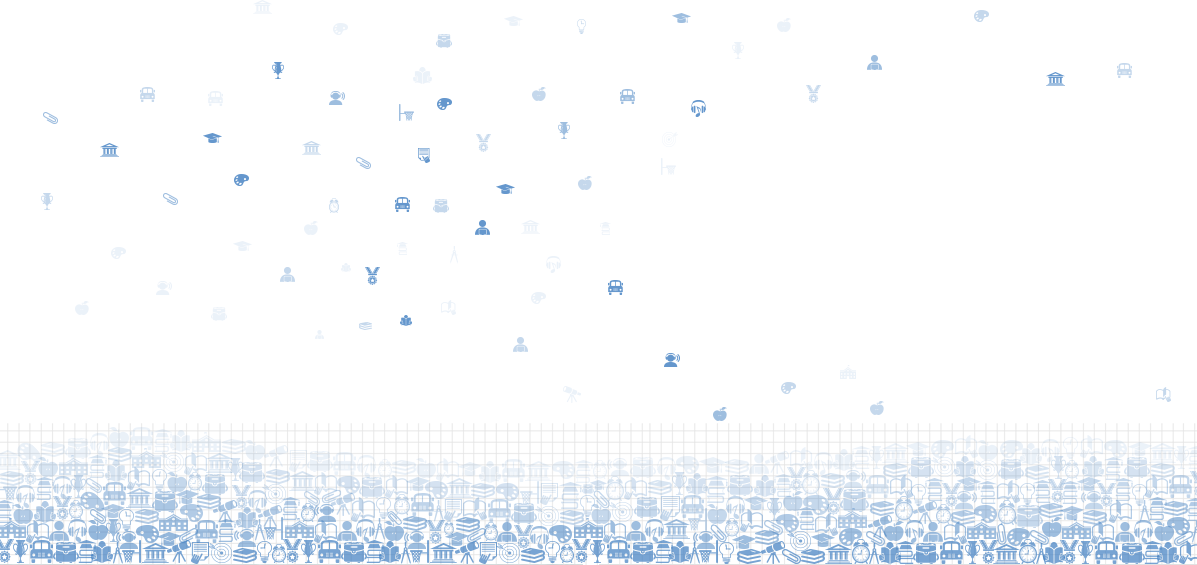
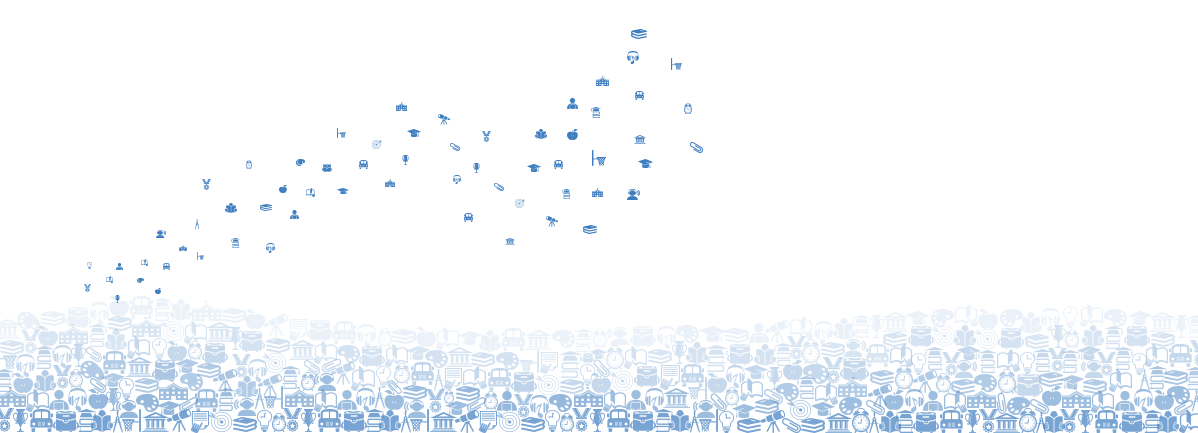
메인 이미지 수정 및 메인 강좌 2030-01-01 표시 안되도록 수정

diff --git a/common/static/css/style.css b/common/static/css/style.css
@@ -346,12 +346,12 @@ a, span, p {color:inherit;}
 /* effect*/
 .header-global .wrapper-header .nav-global.list-inline .item > a.hover:after {
 	/*content: '' attr(data-hover-label) '';*/
-  /*position: absolute;*/
-  /*left: 0;*/
-  /*top: 0;*/
-  /*opacity: 0;*/
-  /*transform: translate3d(0, 140%, 0);*/
-  /*transition: transform .2s cubic-bezier(.86, .6, .08, 1.01), opacity .2s ease-in;*/
+	/*position: absolute;*/
+	/*left: 0;*/
+	/*top: 0;*/
+	/*opacity: 0;*/
+	/*transform: translate3d(0, 140%, 0);*/
+	/*transition: transform .2s cubic-bezier(.86, .6, .08, 1.01), opacity .2s ease-in;*/
 	color: #4587c2;
 }
 
@@ -369,7 +369,7 @@ a, span, p {color:inherit;}
 .header-global .wrapper-header .nav-global.list-inline .item > a.hover:hover:after,
 .header-global .wrapper-header .nav-global.list-inline .item > a.hover:focus:after {
 	/*transform: translate3d(0, 0, 0);*/
-  	/*opacity: 1;*/
+	/*opacity: 1;*/
 	color: #4587c2;
 }
 
@@ -381,11 +381,10 @@ a, span, p {color:inherit;}
 
 .effect_label{
 	/*transform: translate3d(0, 0, 0);*/
-  /*transition-property: transform;*/
-  /*transition-duration: .3s;*/
-  /*transition-timing-function: cubic-bezier(.86, .6, .08, 1.01);*/
+	/*transition-property: transform;*/
+	/*transition-duration: .3s;*/
+	/*transition-timing-function: cubic-bezier(.86, .6, .08, 1.01);*/
 }
-
 
 .header-global .m-gnb {display:none;}
 .header-global .wrapper-header .list-inline.nav-global li.item[data-hidden="w"] {display:none;}
@@ -848,10 +847,10 @@ background: linear-gradient(to bottom, #35c2e9 0%,#35c2e9 50%,#03b3e4 51%,#03b3e
 /*.api-download > a, .api-download > a:hover {font-weight:700;color:#f03421;padding-right:27px;background:url(/static/images/css/icon_down.png) right center no-repeat;display:inline-block;margin:10px 0 5px 0;}*/
 .api-download > .down{font-weight:700;color:#f03421;padding-right:27px;background:url(/static/images/css/icon_down.png) right center no-repeat;display:inline-block;margin:10px 0 5px 0;}
 
-.kmooc-tab {border-bottom:solid 3px #03b3e4;}
+.kmooc-tab {border-bottom:solid 3px #4587c2;}
 .kmooc-tab:after {content:"";display:block;clear:both;}
-.kmooc-tab > a {display:inline-block;line-height:50px;font-weight:700;color:#03b3e4;background:#eeecec;font-size:1.375em;width:230px;text-align:center;}
-.kmooc-tab > a.on {background:#03b3e4;color:#fff;}
+.kmooc-tab > a {display:inline-block;line-height:50px;font-weight:700;color:#4587c2;background:#eeecec;font-size:1.375em;width:230px;text-align:center;}
+.kmooc-tab > a.on {background:#4587c2;color:#fff;}
 .kmooc-box {margin-bottom:50px;}
 .kmooc-block {margin-top:50px;}
 .kmooc-block h3 {font-size:1.438em;font-weight:700;font-family:"Nanum Gothic";position:relative;padding-top:10px;}
@@ -1477,7 +1476,7 @@ button.button-primary.login-provider{padding: 0 0 0 37px;}
 
 .home>header {height: 310px; border-bottom: 1px solid #eee;}
 
-.ttbg { background: #fff url('/static/images/css/main_bg.png') repeat center 100%;}
+.ttbg { background: #fff url('/static/images/css/main_bg1.png') repeat center 100%;}
 .ttbg1 {    position: relative;
     left: 0;
     top: 35px;

diff --git a/lms/templates/index.html b/lms/templates/index.html
@@ -103,6 +103,7 @@ from openedx.core.djangolib.markup import HTML, Text
             <div class="ttbg" style="max-width: 100%; height:310px; ">
                 <div class="grid-container grid-manual" style="height: 100%">
                     <div class="row" style="height: 100%;">
+                        <img src="/static/images/css/main_bg2.png" style="position: absolute; margin-top: 30px; margin-left: 317px;">
                         <div class="col col-12 sm-col-6">
                             <div class="ttbg1" id="main-contents-search">
 			<span class="k-bannner-txt">

diff --git a/common/djangoapps/student/views.py b/common/djangoapps/student/views.py
@@ -557,7 +557,7 @@ def index(request, extra_context=None, user=AnonymousUser()):
     # filter test ::: filter_={'start__lte': datetime.datetime.now(), 'org':'edX'}
 
     f1 = None if user.is_staff else {'enrollment_start__isnull': False, 'start__gt': datetime.datetime.now(),
-                                     'enrollment_start__lte': datetime.datetime.now()}
+                                     'enrollment_start__lte': datetime.datetime.now(), 'start__lte': datetime.datetime(2029, 12, 31, 23, 59, 59)}
     log.info(f1)
     courses1 = get_courses(user, filter_=f1)
 
